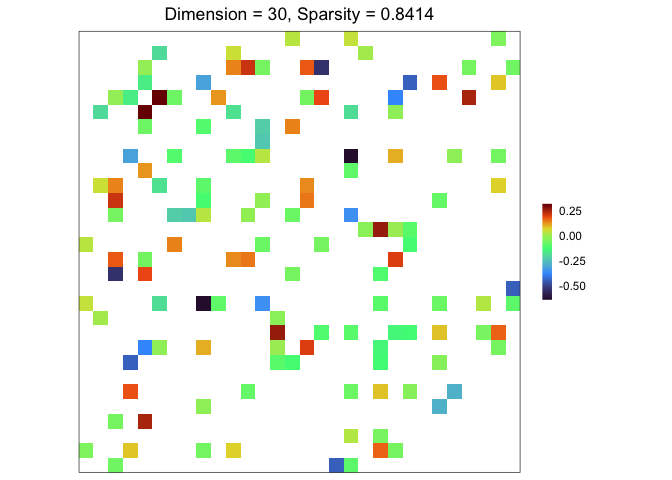
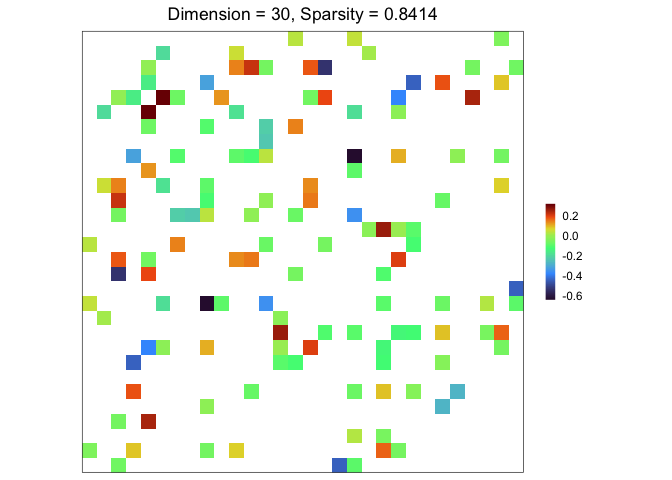
refine: apply gamma to Frobenius norms in adaptive group weights

diff --git a/src/lambda_.cpp b/src/lambda_.cpp
@@ -57,7 +57,7 @@ double lambda_group(const arma::mat& Omega, std::string penalty,
     return lambda;
 
   } else if (penalty == "adapt") {
-    return lambda / (arma::norm(arma::pow(arma::abs(Omega), gamma), "fro") + eps);
+    return lambda / (std::pow(Omega_norm, gamma) + eps);
 
   } else if (penalty == "atan") {
     return lambda * gamma * (gamma + 2/M_PI) / (gamma*gamma + Omega_norm*Omega_norm);

diff --git a/README.md b/README.md
@@ -108,10 +108,10 @@ plot(prec)
 performance(hatOmega = prec$hatOmega, Omega = sim$Omega)
 #>      measure    value
 #> 1   sparsity   0.8414
-#> 2  Frobenius  24.9542
-#> 3         KL   8.5650
-#> 4  quadratic 116.1826
-#> 5   spectral  12.8341
+#> 2  Frobenius  24.9290
+#> 3         KL   8.5430
+#> 4  quadratic 115.7146
+#> 5   spectral  12.8539
 #> 6         TP  21.0000
 #> 7         TN 339.0000
 #> 8         FP  48.0000
